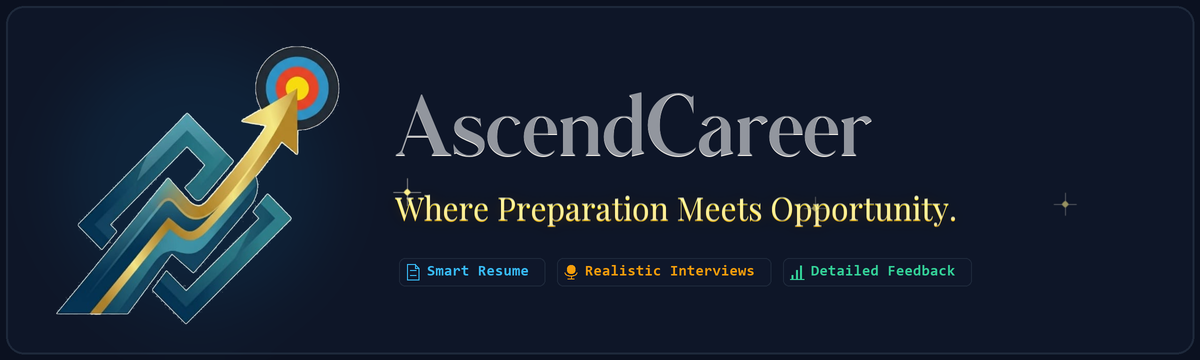
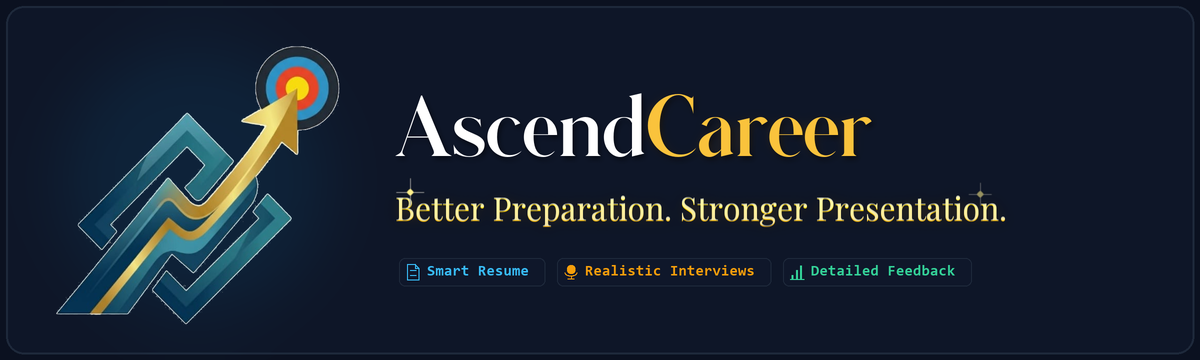
Update branding: stylish dual-tone AscendCareer title and new tagline 'Better Preparation. Stronger Presentation.'

Changed region(s): [[0.3392, 0.2444, 0.74, 0.4583], [0.3083, 0.5194, 0.8325, 0.6417], [0.8633, 0.55, 0.8942, 0.5806]]

diff --git a/scripts/generate_top_banner.py b/scripts/generate_top_banner.py
@@ -31,15 +31,32 @@ def create_banner():
     logo_pos_x = int(45 * SCALE)
     logo_pos_y = int(30 * SCALE)
 
-    # 3. Static Title 'AscendCareer' in Pure 2nd Font (NO swoosh, NO animation)
+    # 3. Static Title 'AscendCareer' in stylish dual-tone luxury serif
+    asc_w = font_title.getlength('Ascend')
+
+    # Soft dark drop shadow for luxury depth and clean separation
+    title_shadow = Image.new('RGBA', (W, H), (0, 0, 0, 0))
+    ts_draw = ImageDraw.Draw(title_shadow)
+    ts_draw.text((start_x + int(2 * SCALE), base_y + int(3 * SCALE)), 'Ascend', font=font_title, fill=(0, 0, 0, 130))
+    ts_draw.text((start_x + asc_w + int(2 * SCALE), base_y + int(3 * SCALE)), 'Career', font=font_title, fill=(0, 0, 0, 130))
+    title_shadow = title_shadow.filter(ImageFilter.GaussianBlur(int(2.5 * SCALE)))
+
+    # Soft warm ambient bloom behind Career
+    title_glow = Image.new('RGBA', (W, H), (0, 0, 0, 0))
+    tgldraw = ImageDraw.Draw(title_glow)
+    tgldraw.text((start_x + asc_w, base_y), 'Career', font=font_title, fill=(245, 158, 11, 75))
+    title_glow = title_glow.filter(ImageFilter.GaussianBlur(int(6 * SCALE)))
+
+    # Pure crisp dual-tone title
     title_layer = Image.new('RGBA', (W, H), (0, 0, 0, 0))
     tdraw = ImageDraw.Draw(title_layer)
-    # Luxury champagne / ivory tone matching image 2
-    tdraw.text((start_x, base_y), 'AscendCareer', font=font_title, fill=(248, 244, 236, 255))
-    tdraw.text((start_x, base_y - int(1 * SCALE)), 'AscendCareer', font=font_title, fill=(255, 255, 255, 140))
+    # Ascend in pearl white
+    tdraw.text((start_x, base_y), 'Ascend', font=font_title, fill=(255, 255, 255, 255))
+    # Career in luminous champagne gold
+    tdraw.text((start_x + asc_w, base_y), 'Career', font=font_title, fill=(250, 195, 60, 255))
 
-    # 4. Tagline: 'Where Preparation Meets Opportunity.' in understandable font with golden glowing glitter
-    tagline_text = "Where Preparation Meets Opportunity."
+    # 4. Tagline: 'Better Preparation. Stronger Presentation.' in understandable font with golden glowing glitter
+    tagline_text = "Better Preparation. Stronger Presentation."
 
     # Soft golden halo / bloom
     tag_glow = Image.new('RGBA', (W, H), (0, 0, 0, 0))
@@ -53,9 +70,9 @@ def create_banner():
     tmdraw.text((start_x, tag_y), tagline_text, font=font_tagline, fill=255)
 
     grad = np.zeros((H, W, 4), dtype=np.uint8)
-    top_c = np.array([255, 245, 160, 255])
+    top_c = np.array([255, 248, 180, 255])
     mid_c = np.array([255, 215, 0, 255])
-    bot_c = np.array([218, 165, 28, 255])
+    bot_c = np.array([218, 160, 25, 255])
     for y in range(H):
         ny = (y - tag_y) / float(40 * SCALE)
         ny = max(0.0, min(1.0, ny))
@@ -70,16 +87,16 @@ def create_banner():
     # Specular edge highlight
     tag_spec = Image.new('RGBA', (W, H), (0, 0, 0, 0))
     tsdraw = ImageDraw.Draw(tag_spec)
-    tsdraw.text((start_x, tag_y - int(1 * SCALE)), tagline_text, font=font_tagline, fill=(255, 255, 210, 180))
+    tsdraw.text((start_x, tag_y - int(1 * SCALE)), tagline_text, font=font_tagline, fill=(255, 255, 220, 180))
 
     # Glitter twinkle positions across tagline
     sparkle_bases = [
-        (start_x + int(12 * SCALE), tag_y + int(6 * SCALE), 0.0),
-        (start_x + int(135 * SCALE), tag_y + int(20 * SCALE), 0.35),
-        (start_x + int(270 * SCALE), tag_y + int(8 * SCALE), 0.7),
-        (start_x + int(420 * SCALE), tag_y + int(22 * SCALE), 0.15),
-        (start_x + int(560 * SCALE), tag_y + int(10 * SCALE), 0.55),
-        (start_x + int(670 * SCALE), tag_y + int(18 * SCALE), 0.85),
+        (start_x + int(15 * SCALE), tag_y + int(6 * SCALE), 0.0),
+        (start_x + int(210 * SCALE), tag_y + int(20 * SCALE), 0.35),
+        (start_x + int(548 * SCALE), tag_y + int(22 * SCALE), 0.7),
+        (start_x + int(585 * SCALE), tag_y + int(8 * SCALE), 0.15),
+        (start_x + int(860 * SCALE), tag_y + int(20 * SCALE), 0.55),
+        (start_x + int(1215 * SCALE), tag_y + int(22 * SCALE), 0.85),
     ]
 
     # 5. Monospace Feature Pills (Smart Resume • Realistic Interviews • Detailed Feedback)
@@ -154,7 +171,9 @@ def create_banner():
     # Composite static logo
     base_banner.alpha_composite(scaled_logo, (logo_pos_x, logo_pos_y))
 
-    # Composite static title
+    # Composite static title with soft shadow & warm glow
+    base_banner.alpha_composite(title_shadow)
+    base_banner.alpha_composite(title_glow)
     base_banner.alpha_composite(title_layer)
 
     # Composite tagline glow, core, spec

diff --git a/README.md b/README.md
@@ -5,7 +5,7 @@
   <br/><br/>
 
   <p align="center">
-    <h3>Where Preparation Meets Opportunity.</h3>
+    <h3>Better Preparation. Stronger Presentation.</h3>
     <em>A comprehensive, AI-powered interview preparation and career-readiness platform with multi-persona panels, real-time voice-to-voice interaction, and deep role/company tailoring.</em>
   </p>
 
